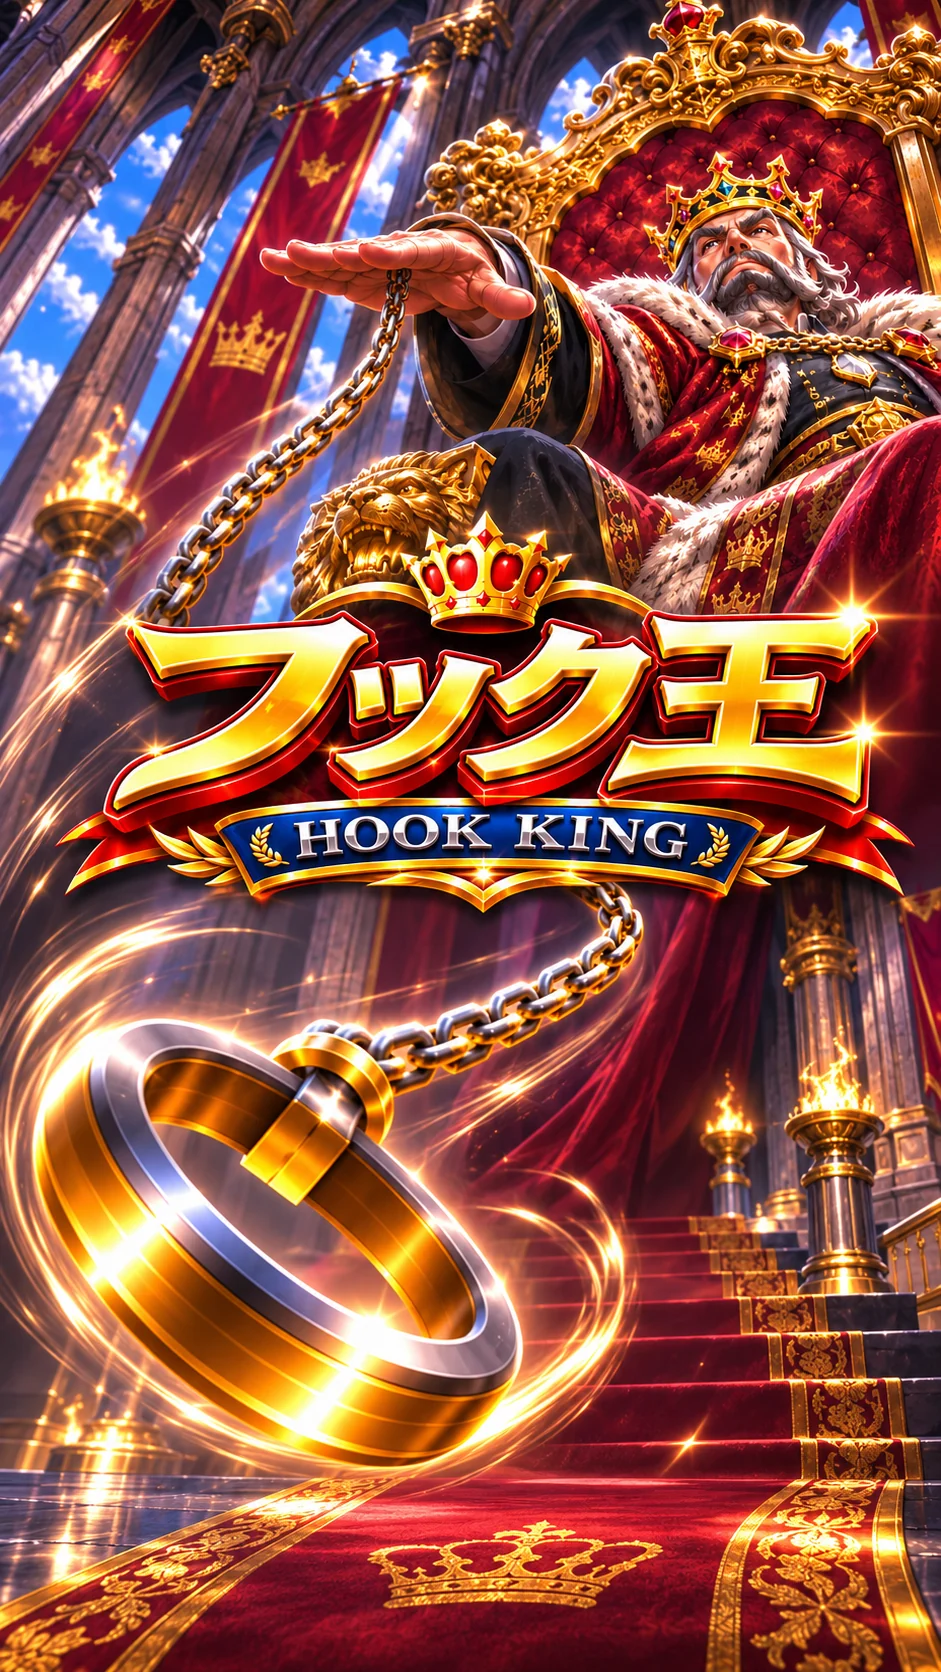
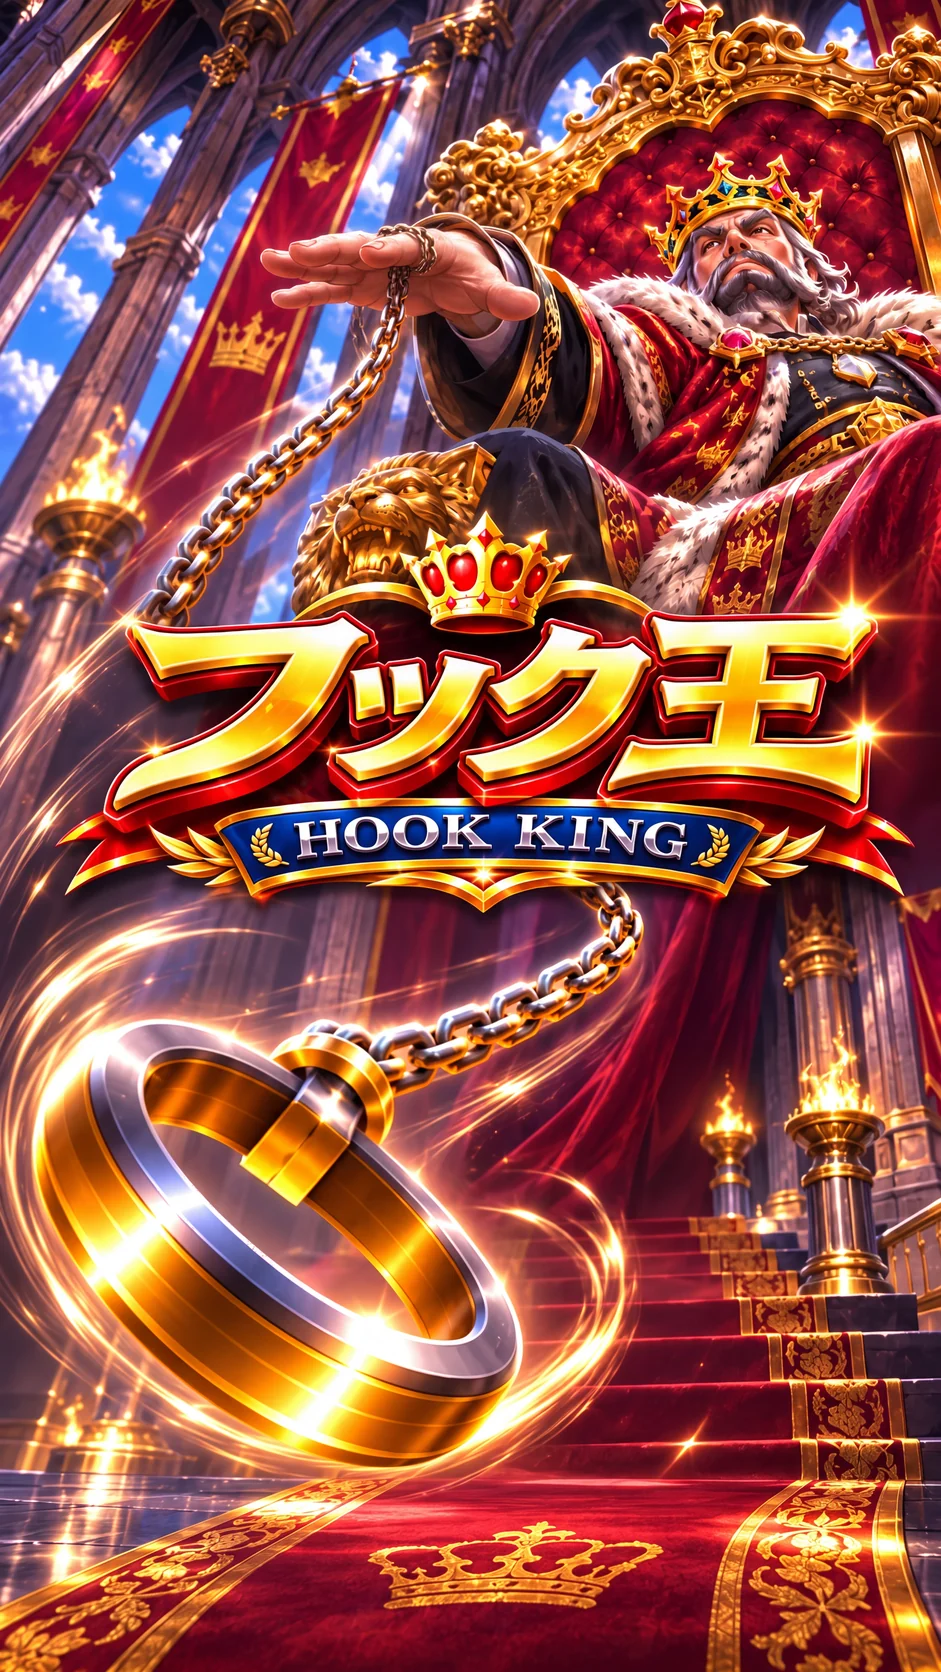
マイボックスのボタンに未開封カードパックのバッジ、トップ画面の絵を差し替え（指の修正）
Claude-Session: https://claude.ai/code/session_01FUZM6wvAdP5Hw6RT3kzeVm

diff --git a/index.html b/index.html
@@ -198,6 +198,12 @@
   .m-mode button.on { background: linear-gradient(#ff8cc2, #ff3f8e); border-color: #ffd1e8; }
   .m-mode i { position: absolute; top: -6px; right: -4px; min-width: 20px; height: 20px; border-radius: 10px; background: var(--gold);
     color: #5a2a00; font-size: 12px; font-style: normal; line-height: 20px; }
+  /* マイボックスのボタンのバッジ（開けていないカードパックの数） */
+  #btnBox { position: relative; }
+  #btnBox[data-badge]::after { content: attr(data-badge); position: absolute; top: -6px; right: -4px; min-width: 20px; height: 20px;
+    padding: 0 5px; box-sizing: border-box; border-radius: 10px; background: var(--gold); color: #5a2a00; font-size: 12px;
+    font-weight: 800; line-height: 20px; text-align: center; }
+  body.theme-cool #btnBox[data-badge]::after { color: #0b1220; background: #5fd0ff; }
   .m-msg { background: #ffffff1c; border-radius: 12px; padding: 8px 10px; margin-bottom: 10px; font-size: 13px; color: var(--gold); font-weight: 700; }
   /* カードパック（アイテムタブ） */
   .m-pack { display: flex; align-items: center; gap: 10px; padding: 10px; border-radius: 16px; background: #ffffff14; margin-bottom: 10px; }

diff --git a/src/main.js b/src/main.js
@@ -409,7 +409,14 @@ async function boot() {
     return ` <small class="hud-r">あと ${Math.floor(s / 60)}:${String(s % 60).padStart(2, '0')}</small>`;
   }
   setInterval(() => { if (round) showHud(); }, 1000);   // 残り時間と回復を1秒ごとに表示しなおす
+  // マイボックスのボタンに、まだ開けていないカードパックの数のバッジ
+  const btnBoxEl = document.getElementById('btnBox');
+  function showBoxBadge() {
+    const n = progress.packs;
+    if (n > 0) btnBoxEl.dataset.badge = n; else delete btnBoxEl.dataset.badge;
+  }
   function showHud() {
+    showBoxBadge();
     const unl = debug.unlimited;
     hud.innerHTML = `
       ${training ? '<span class="hud-c">特訓モード：クレジット不要</span>' : `<span class="hud-c">クレジット <b>${unl ? '∞' : progress.credits}</b>${regenText(unl)}</span>`}
